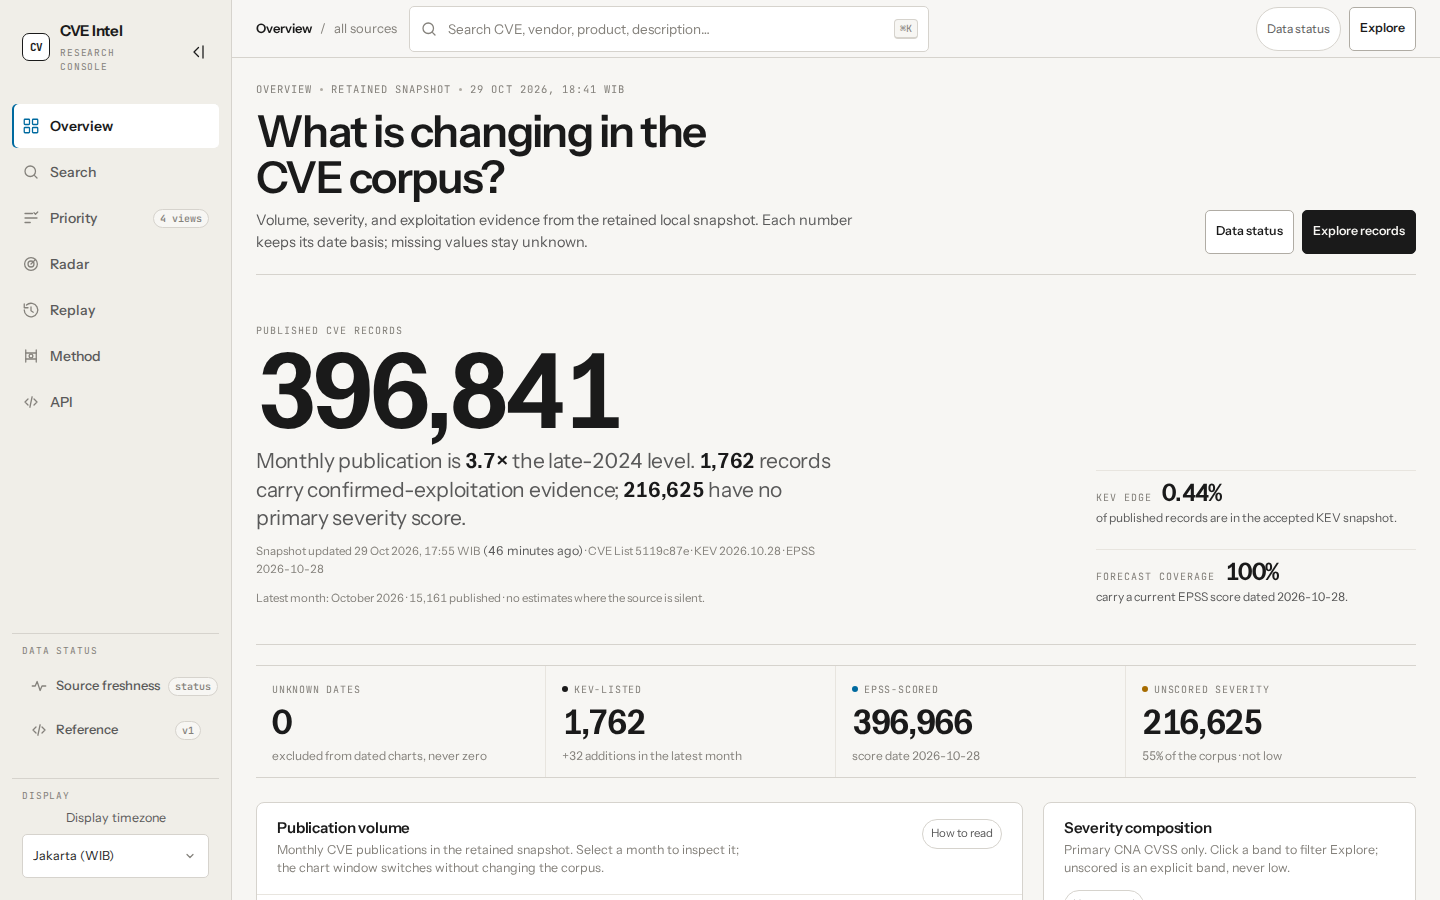
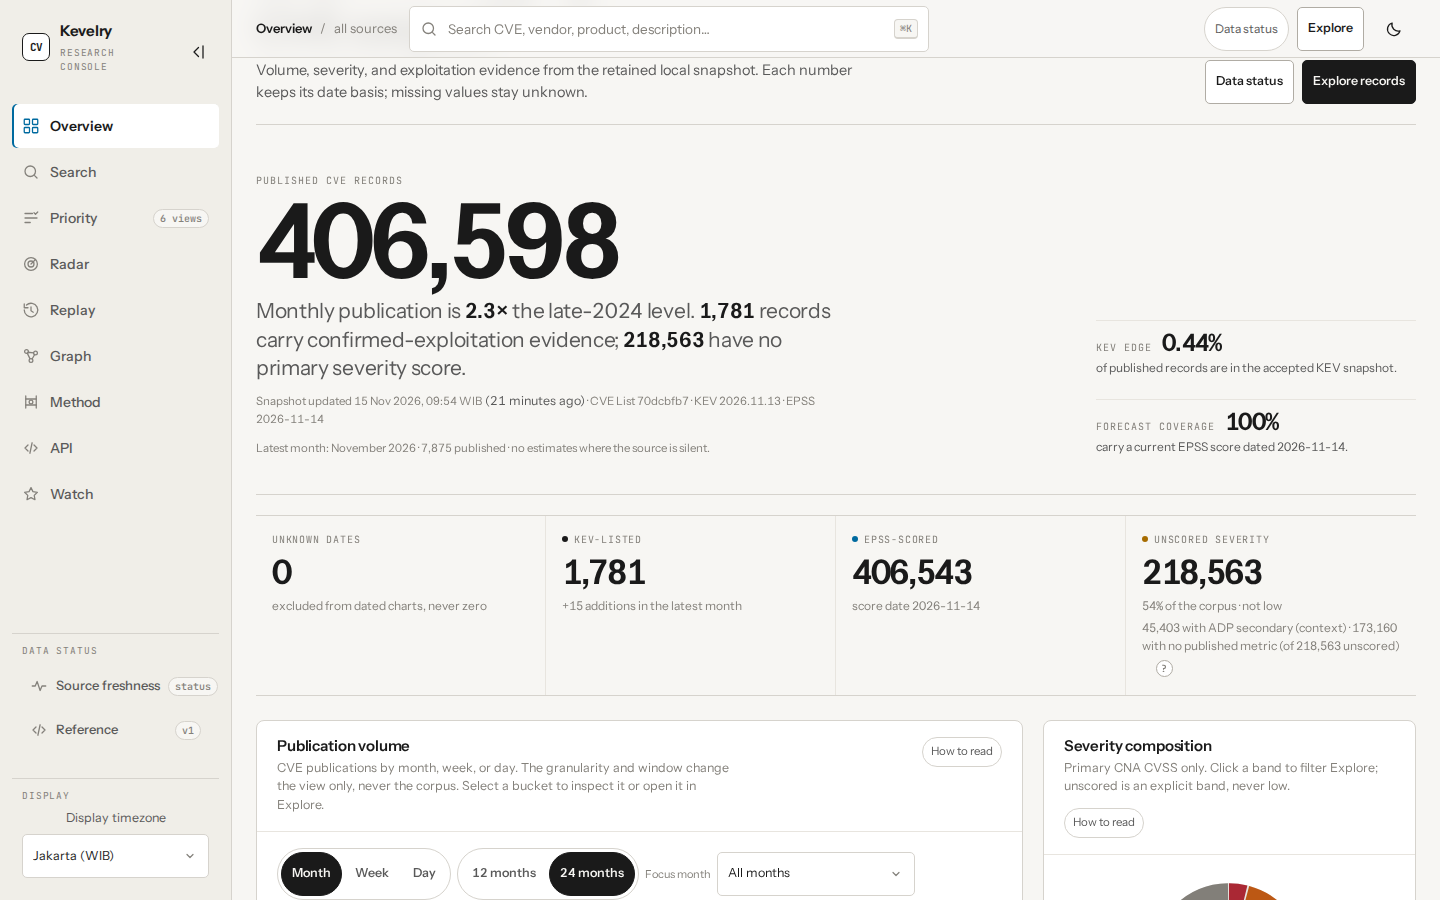
docs: refresh README and screenshots for v3
Screenshots stay 1440x900 viewport crops (the committed PNGs were already
1440x900, not full-page captures). Overview is cropped at the top: corpus
hero, the stat strip, and the publication-volume panel. Priority is scrolled
to one expanded known-exploited row so the KEV catalog labels, the CWE-416
chip with its published mitigation, and the Secondary (context only) CVSS
block are all visible. Explore is scrolled to ?exploit=tagged rows with the
EXPLOIT REF badge and reference links. A single 1440x900 crop cannot also hold
the export buttons: the cohort-composition panel sits between the export
control and the first row, so the page-bounded export stays documented in the
README and in the unchanged UI.

README now describes the shipped v3 surface: secondary/ADP CVSS context
(cvssSecondary, overview secondaryOnly/noMetric), KEV actionability
(ransomwareUse tri-state plus catalog labels), CWE taxonomy (migration 009,
catalog version 1000-956, chips/states/mitigation), bulk lookup
GET /api/v1/cves/batch (50 ids, resolution.missingIds), the RSS feed at
/api/v1/radar/feed.xml, the once-per-UTC-day checkpoint writer, and
page-bounded CSV/JSON export, with the v3 plan linked.

Counts refreshed from today's gates: 592 unit tests passing (3 skipped) and
123 Playwright tests passing (1 skipped), lint and typecheck clean.

Env documentation now matches the code: SITE_URL names which surfaces use it
(canonical/sitemap metadata, and the feed's absolute links which are omitted
[…]

diff --git a/README.md b/README.md
@@ -15,15 +15,18 @@ Radar** and replayable history. One self-contained Docker image, one container,
 and a versioned read-only API so other platforms (or your own self-hosted copy)
 can consume the same data.
 
-> **Status: v2.0.2 released and serving with scheduled refresh on (CVE + KEV hourly,
-> EPSS + CISA SSVC daily); the v3 epics (E1–E5) are implemented and awaiting the
-> owner's release decision.** 580 unit tests (3 skipped) and 123 Playwright tests
-> (1 skipped) green; lint, typecheck, build, and secret-scan run on every push via
-> CI. See [Build gates](#build-gates-all-done).
+> **Status: `2.0.2` (built 2026-11-11, and what `latest` points at) is the newest
+> image a reader can pull from Docker Hub. `v3.0.0` (epics E1–E5) is implemented,
+> verified, and deployed on this host with scheduled refresh on (CVE + KEV hourly,
+> EPSS + CISA SSVC daily), but it is not yet published as an image tag.** 592 unit
+> tests pass (3 skipped) and 123 Playwright tests pass (1 skipped), measured
+> 2026-11-15; lint, typecheck, build, and secret-scan run on every push via CI. See
+> [Build gates](#build-gates-all-done); the v3 scope is specified in
+> [`docs/plans/v3-end-to-end-plan.md`](docs/plans/v3-end-to-end-plan.md).
 
-![Overview: corpus hero, freshness, and publication volume](docs/images/overview.png)
-![Search: explained filters with live cohort composition](docs/images/explore.png)
-![Priority: one expanded known-exploited row with labeled signals](docs/images/priority.png)
+![Overview: corpus total, freshness stats, and the publication-volume panel](docs/images/overview.png)
+![Search: exploit-tagged rows with severity/KEV badges and exploit reference links](docs/images/explore.png)
+![Priority: one expanded known-exploited row with KEV catalog labels, CWE chips, and the secondary CVSS block](docs/images/priority.png)
 
 ## What it does
 
@@ -52,15 +55,19 @@ can consume the same data.
   `noMetric` instead of one ambiguous number.
 - **KEV facts, not inferences:** the expanded Priority row labels each catalog fact it
   has (listed, date added, due date, required action, catalog name, CWEs) and keeps
-  ransomware use tri-state — `Known (catalog)`, `Unknown (catalog)`, `Not stated` — so
-  an absent field never renders as "no ransomware".
+  `kev.ransomwareUse` tri-state — `Known (catalog)`, `Unknown (catalog)`,
+  `Not stated` — so an absent field never renders as "no ransomware".
 - **CWE labels:** every CWE id a record carries resolves against a local MITRE catalog
-  (view 1000 `CSV.zip`, refreshed at most once per 24 h and skipped when the bytes hash
-  unchanged). The detail route serves `cweDetails`; Priority chips show the published
-  name, link to the canonical definition, and open the published mitigation text when
-  there is one. Three states stay distinct — `known`, `unmapped`,
-  `taxonomy-unavailable` — and an id is never dropped, renamed, or turned into a
-  severity claim.
+  (view 1000 `CSV.zip`, stored by migration 009, refreshed at most once per 24 h and
+  skipped when the bytes hash unchanged; the accepted catalog reports its version as
+  `<view id>-<entry count>`, e.g. `1000-956`). The detail route serves `cweDetails`;
+  Priority chips show the published name, link to the canonical definition, and open
+  the published mitigation text when there is one. Three states stay distinct —
+  `known`, `unmapped`, `taxonomy-unavailable` — and an id is never dropped, renamed,
+  or turned into a severity claim.
+- **Bulk lookup:** `GET /api/v1/cves/batch?ids=…` returns up to 50 records in one
+  bounded read and names every id it could not resolve in `resolution.missingIds`, so
+  a client cannot mistake an absent record for an empty one.
 - **Change Radar:** before/after evidence when a record, KEV membership, forecast, or
   list membership changes, with the reason shown.
 - **Subscriptions and exports:** `/api/v1/radar/feed.xml` serves those same retained
@@ -72,8 +79,10 @@ can consume the same data.
 - **Watch:** browser-private starred records with a hydrating view. No account,
   no server record.
 - **Dark console:** persisted light/dark theme across every surface.
-- **Snapshot replay:** a retained daily checkpoint plus policy version shows
-  what the site displayed and why (bounded observed history, no fabricated past).
+- **Snapshot replay:** the worker writes at most one checkpoint per UTC date, after a
+  cycle in which at least one source was accepted; a retained checkpoint plus policy
+  version then shows what the site displayed and why (bounded observed history, no
+  fabricated past).
 - **Public read-only API + docs:** the same local snapshots the website reads,
   versioned routes, OpenAPI plus human docs. Public writes stay out of scope.
 - **Methodology and data status:** pipeline, signal-relationship, and ordering
@@ -166,13 +175,18 @@ flowchart TB
 
 ## Data sources and why this is feasible
 
-All three feeds are free to access today (checked 2026-10-24; recheck terms before launch or monetization):
+The three core feeds are free to access today (checked 2026-10-24; recheck terms before launch or monetization):
 
 | Source                                                                   | What we take                                                          | Reuse basis                                                                                                                   |
 | ------------------------------------------------------------------------ | --------------------------------------------------------------------- | ----------------------------------------------------------------------------------------------------------------------------- |
 | [CVE List V5](https://github.com/CVEProject/cvelistV5)                   | Records, descriptions, dates, references, available CNA/ADP metrics   | CVE Terms: no-charge reproduction, derivatives, display, distribution, reproduce MITRE copyright designation and license      |
 | [CISA KEV](https://www.cisa.gov/known-exploited-vulnerabilities-catalog) | Known-exploited membership, date added, catalog metadata              | CC0 1.0 for catalog data; third-party links and CISA/DHS marks not covered                                                    |
 | [FIRST EPSS](https://www.first.org/epss/data)                            | Daily exploitation probability, percentile, score date, model version | Free, no registration; FAQ asks attribution; services terms permit specified preventative-security uses with notices retained |
+
+Enrichment adds two more local sources: CISA Vulnrichment for SSVC decision points
+(KEV cohort only, daily) and the MITRE CWE catalog for weakness names and published
+mitigations (at most once per 24 h). Neither is fetched at request time; the CWE
+terms and limits are in `docs/research/SOURCES.md`.
 
 Why no paid feed is needed: the site's value is **transparent ordering and
 evidence**, not proprietary telemetry. KEV is confirmed-exploitation evidence,
@@ -192,6 +206,12 @@ Competitor overlap (closest verified: o2CVE) is in `docs/research/COMPETITORS.md
 Current release: **2.0.2** (2026-11-11) — see [CHANGELOG.md](CHANGELOG.md) for the
 full list, upgrade notes, and what 2.0.0 deliberately does not claim.
 
+`v3.0.0` is implemented and deployed on this host, and its entries sit under
+`Unreleased (v3.0.0)` in the changelog, but it is **not yet published as an image
+tag**: `2.0.2` and `latest` are still the newest tags on Docker Hub (both built
+2026-11-11), so `2.0.2` is what a reader can pull today. The v3 scope is specified in
+[`docs/plans/v3-end-to-end-plan.md`](docs/plans/v3-end-to-end-plan.md).
+
 ## Quick start
 
 Prerequisites: Docker with Compose v2, about 12 GB free disk at peak (image
@@ -207,7 +227,8 @@ docker compose logs -f app    # watch first-boot ingestion progress
 Ready means: `GET /api/v1/health` returns 200 and `GET /api/v1/status`
 shows the first snapshots accepted. KEV/EPSS land in seconds-to-minutes; the
 gigabyte CVE List V5 clone takes many minutes, so the site shows an honest
-initializing state until then. Live scale here: 396,841 CVEs, 1,762 KEV, 396,966 EPSS.
+initializing state until then. Live scale here: 406,598 published CVEs, 1,781
+KEV-listed, and 406,543 with an EPSS score in the 15 Nov 2026 snapshot.
 
 ## Configuration
 
@@ -223,7 +244,7 @@ the app reads is listed there.
 | `INGEST_ON_START`         | no       | `true`                         | `false` skips even the first import cycle (worker logs `worker-idle` and parks)                                           |
 | `BIND_ADDR`               | no       | `127.0.0.1`                    | Host address the web port binds to (Compose only)                                                                         |
 | `PORT`                    | yes      | `3000`                         | Host-side web port (container always listens on 3000; serverless platforms inject their own)                              |
-| `SITE_URL`                | no       | loopback fallback              | Public origin for sitemap/canonical/social cards and absolute feed links; blank means derive from proxy headers            |
+| `SITE_URL`                | no       | unset                          | Public origin for sitemap/canonical metadata; the feed uses it for absolute links, else proxy headers, and omits links when the host is unusable |
 | `CVE_GIT_TIMEOUT_MS`      | no       | `3600000`                      | CVE List V5 clone timeout in ms (1 hour)                                                                                  |
 | `CVE_CLONE_DEPTH`         | no       | `1`                            | `1` is shallow `--depth 1`; `0` means full history                                                                        |
 | `CVE_REPO_DIR`            | no       | `<DATA_DIR>/cve-repo`          | Persistent CVE checkout cache; first run clones shallow here, refreshes fetch incrementally, never auto-deleted (~5-6 GB) |
@@ -440,7 +461,9 @@ Resetting data: `docker compose down -v` deletes the `cve-change-radar-data` vol
   one snapshot it is explicitly empty rather than guessed.
 - Severity comes from CNA-provided CVSS only. Records with no CNA metric show
   "unscored" even when an ADP or NVD score exists; severity filters and the
-  new-critical list exclude them by policy.
+  new-critical list exclude them by policy. The overview splits that cohort into
+  `secondaryOnly` (an ADP metric exists and is shown as context) and `noMetric`
+  (nothing published), so the two are never added into one ambiguous number.
 - Filtered result lists report coverage over the bounded fetch, while
   unfiltered lists report exact cohort counts.
 - Snapshot checkpoints retain the top `CHECKPOINT_TOP_N` entries per view
@@ -470,22 +493,23 @@ npm ci                  # install dependencies
 npm run dev             # local dev server
 npm run lint            # eslint
 npm run typecheck       # tsc --noEmit
-npm test                # vitest suite (580 passing, 3 skipped)
-npx playwright test     # end-to-end browser tests (123 passing, 1 skipped)
+npm test                # vitest (592 passing, 3 skipped on 2026-11-15)
+npx playwright test     # browser suite (123 passing, 1 skipped on 2026-11-15)
 npx prettier --write <paths>  # format touched files
+```
 
-The benchmark writes its evidence receipt to a temporary file by default; set
-`scripts/health-watch.sh <base-url>` polls `/api/v1/health` and exits non-zero
-when the instance is unreachable, reports a non-ok status, or has a stale/failed
-source — install it on a 15-minute cron and let cron mail the failure. Set
+The benchmark writes its evidence receipt to a temporary file by default. Set
 `BENCH_WRITE_EVIDENCE=1` to refresh the committed
-`.omo/evidence/task-30-cve-change-radar.results.json`.
+`.omo/evidence/task-30-cve-change-radar.results.json` instead.
+
+`scripts/health-watch.sh <base-url>` polls `/api/v1/health` and exits non-zero when
+the instance is unreachable, reports a non-ok status, or has a stale/failed source —
+install it on a 15-minute cron and let cron mail the failure.
 
 `npm run format:check` currently reports pre-existing repository-wide Markdown/test
 formatting drift (66 files); use Prettier on touched files. `npm audit` reports three
 dev-only findings in the Vitest toolchain; the production image excludes dev
 dependencies. Both are tracked under TASK-002.
-```
 
 ## API
 

diff --git a/CLAUDE.md b/CLAUDE.md
@@ -2,9 +2,9 @@
 
 ## Project Snapshot
 
-**Purpose:** Public CVE intelligence console (wordmark CVE Intel; package/image cve-change-radar), with explainable prioritization, searchable descriptions, Change Radar, and a versioned read-only API.
+**Purpose:** Public CVE intelligence console (wordmark Kevelry; package/image cve-change-radar), with explainable prioritization, searchable descriptions, Change Radar, and a versioned read-only API.
 **Stack:** Next.js 16 App Router, React 19, TypeScript, SQLite/FTS5, visx SVG primitives, one Docker image and container.
-**Release:** 2.0.2 (see `CHANGELOG.md`); v3.0.0 is unreleased. **Phase:** Implemented, verified, and deployed at `http://100.124.184.116:3100` (Tailscale) with scheduled refresh ON (CVE + KEV hourly, EPSS + CISA SSVC enrichment daily). Research Console UI, relation graph, browser-private watch list, and an explainable SSVC triage view shipped; v3 epics E1–E5 (secondary CVSS, KEV tri-state, CWE catalog, bulk lookup, RSS feed plus page-bounded export) implemented and awaiting the release decision; 580 unit tests (3 skipped) and 123 Playwright tests (1 skipped) pass.
+**Release:** 2.0.2 is the newest published image (`kelanach/kevelry`); v3.0.0 is implemented, verified, and deployed on this host but not yet published as an image tag — see `CHANGELOG.md` under `Unreleased (v3.0.0)`. **Phase:** Implemented, verified, and deployed at `http://100.124.184.116:3100` (Tailscale) with scheduled refresh ON (CVE + KEV hourly, EPSS + CISA SSVC enrichment daily). Research Console UI, relation graph, browser-private watch list, and an explainable SSVC triage view shipped; v3 epics E1–E5 (secondary/ADP CVSS context, KEV actionability, CWE catalog via migration 009, bulk lookup, RSS feed plus page-bounded export) shipped and awaiting the release decision; gates on 2026-11-15: 592 unit tests pass (3 skipped) and 123 Playwright tests pass (1 skipped), lint and typecheck clean.
 **Environments:** `development`, `staging`, `production`, selected by `APP_ENV`.
 
 ## Always-Loaded Context
